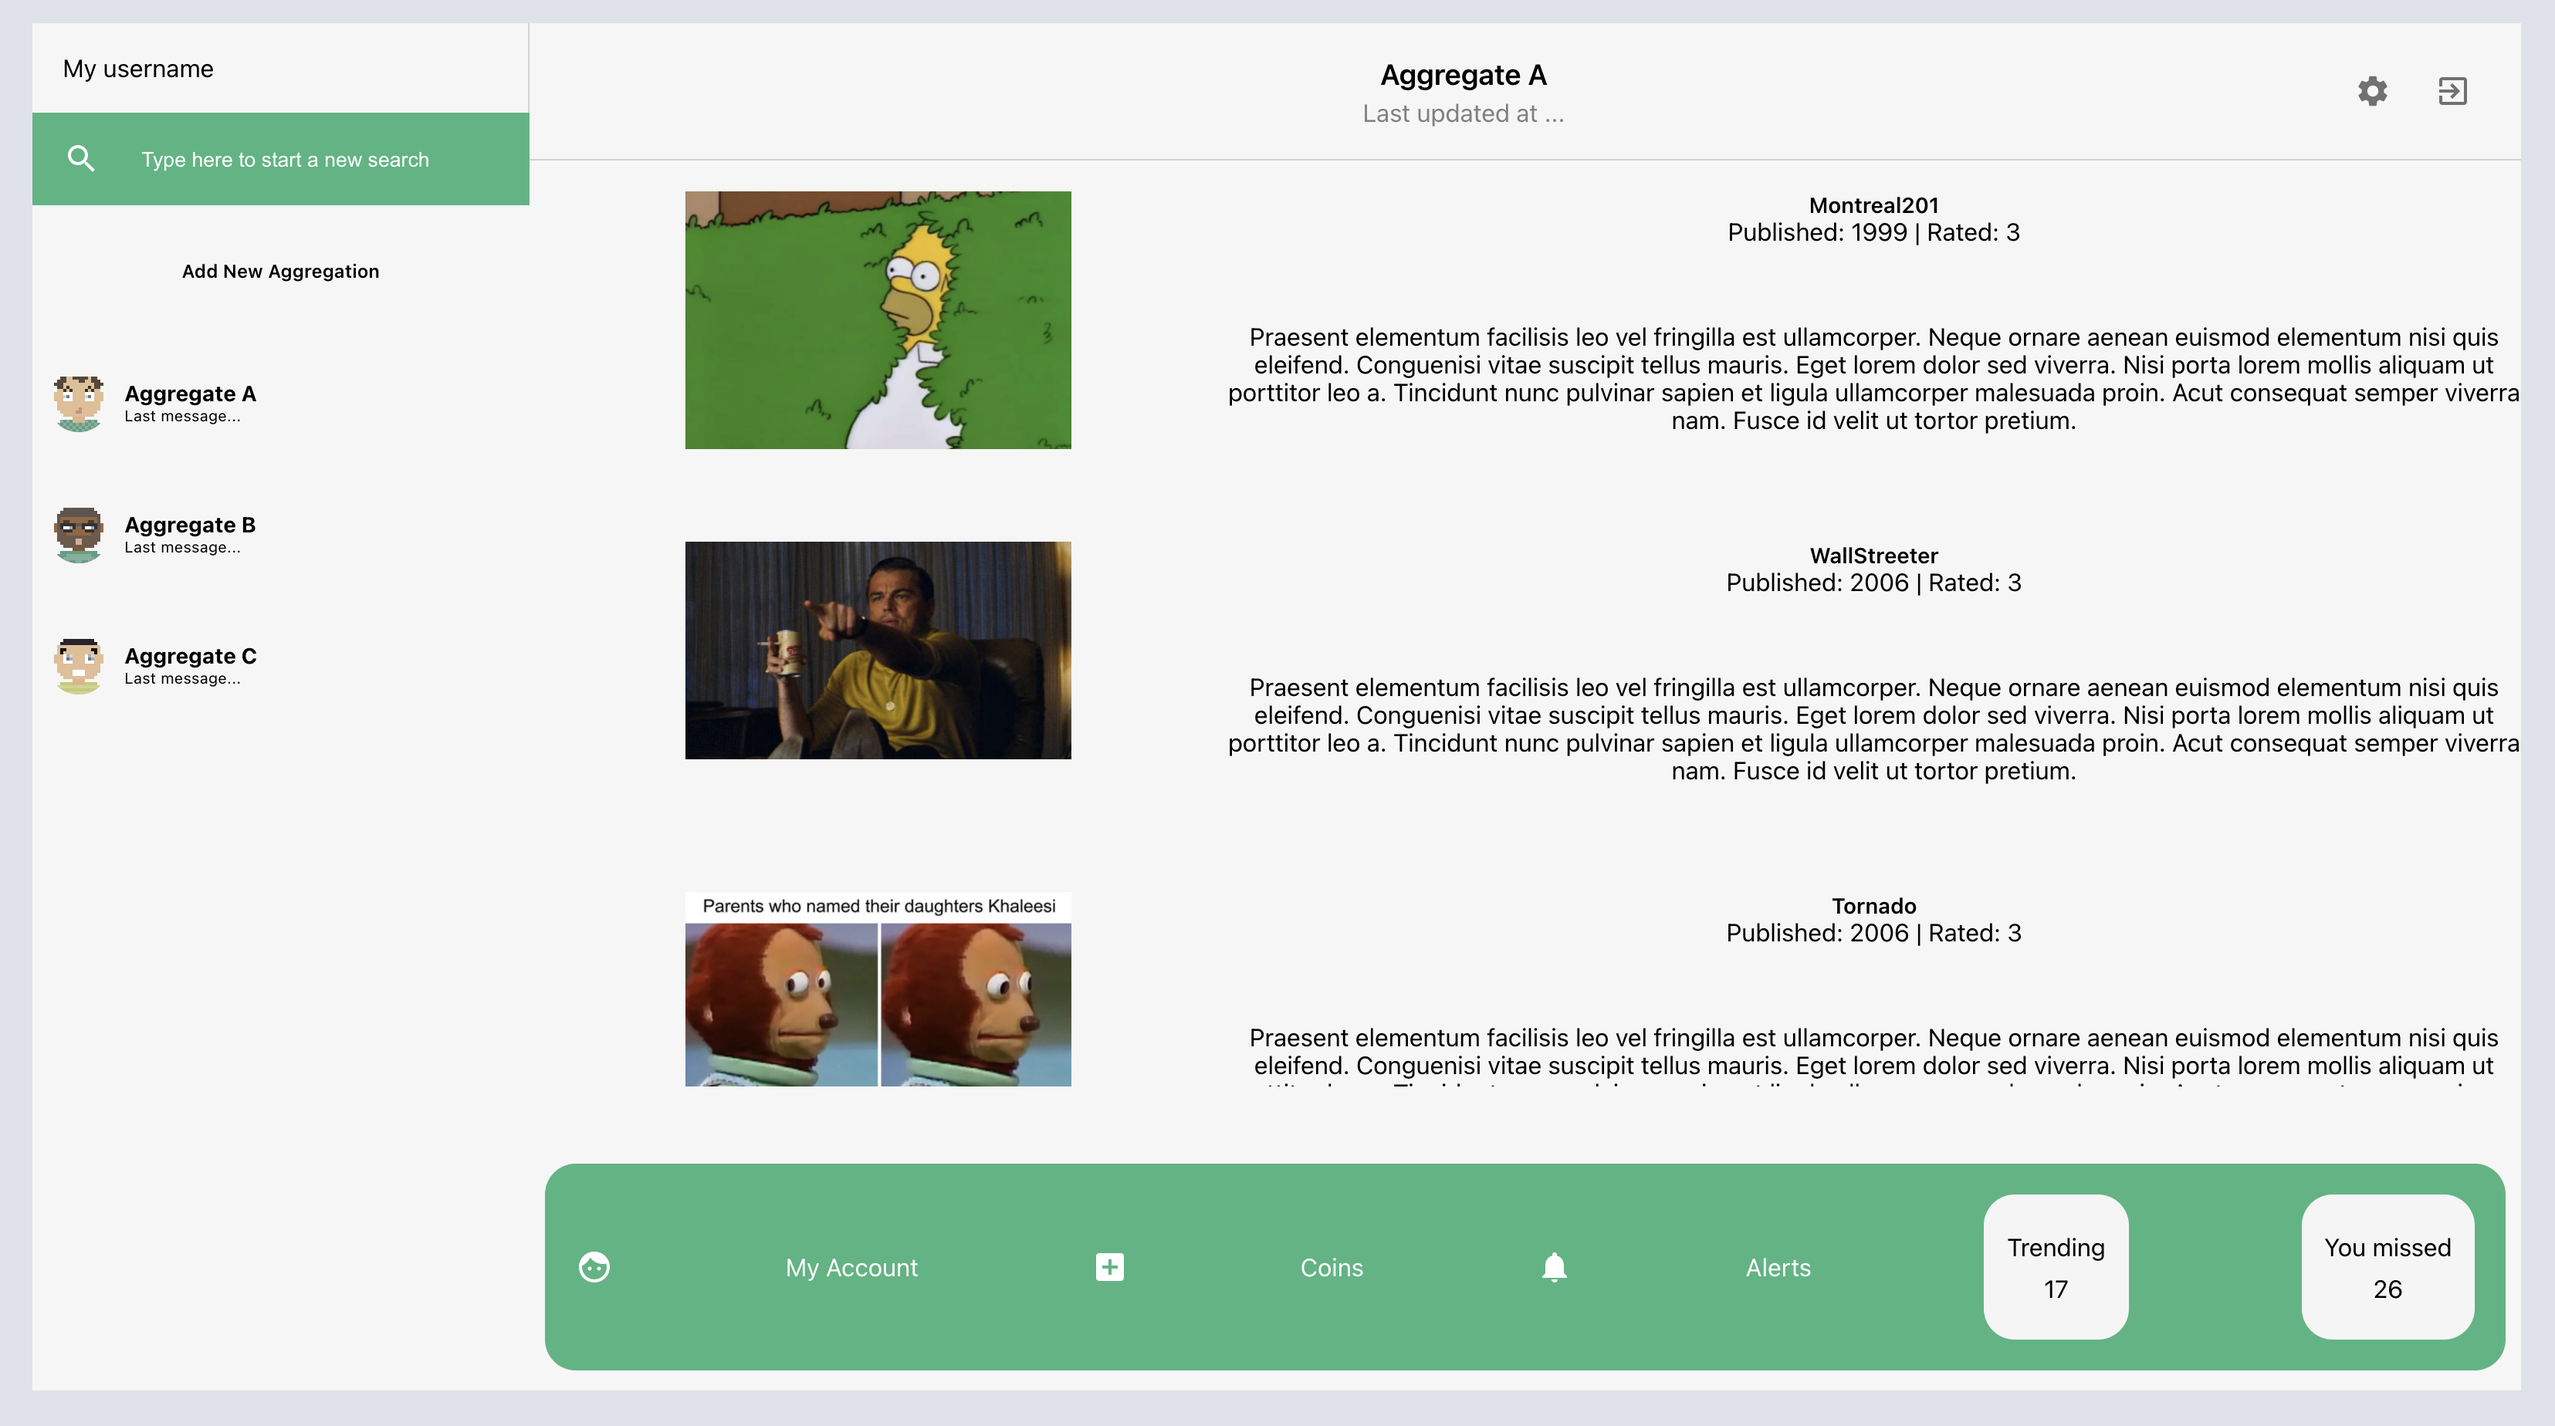
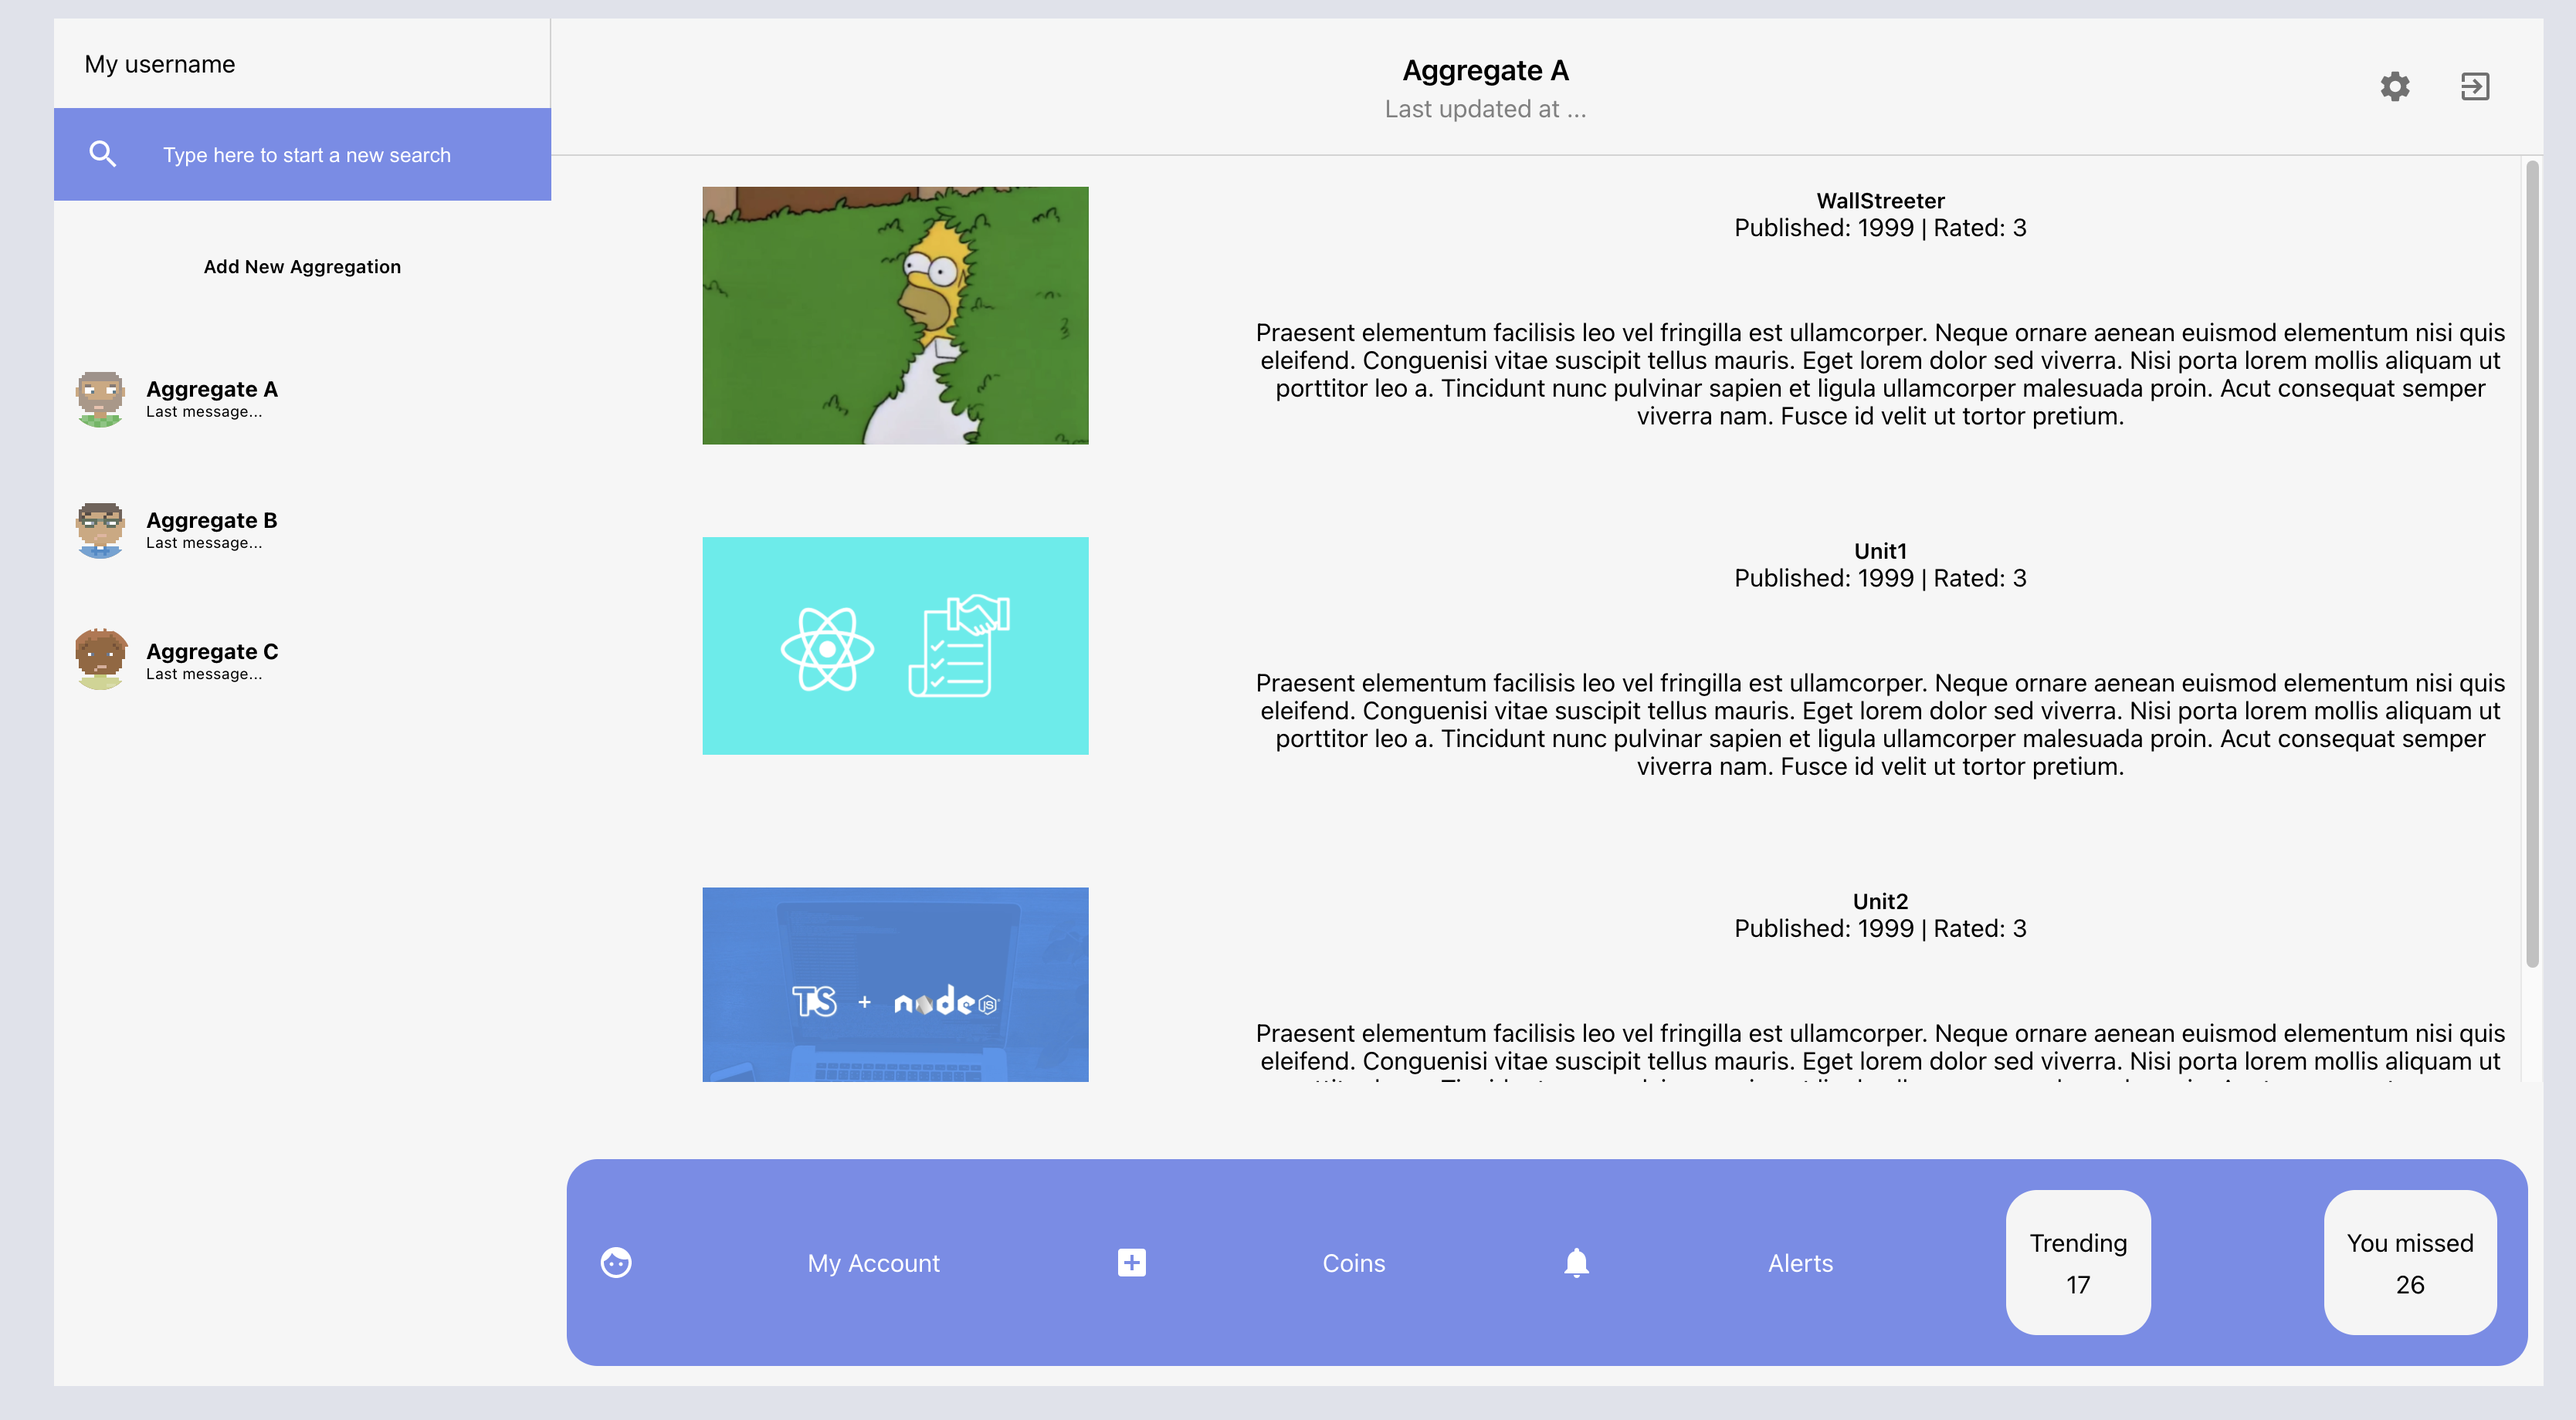
Theme revised

diff --git a/src/client/src/Components/Sidebar/Sidebar.css b/src/client/src/Components/Sidebar/Sidebar.css
@@ -23,7 +23,7 @@
 .sidebar__search {
   display: flex;
   align-items: center;
-  background-color: #41b681;
+  background-color: #778beb;
   height: 40px;
   padding: 10px;
 }
@@ -47,7 +47,7 @@
   margin-right: 20px;
   width: 100%;
   height: 25px;
-  background-color: #41b681;
+  background-color: #778beb;
   color: white;
 }
 

diff --git a/src/client/src/Components/Login/Login.css b/src/client/src/Components/Login/Login.css
@@ -44,7 +44,7 @@
   color: white;
   font-size: 20px;
   border: 0;
-  background-color: #41b681;
+  background-color: #778beb;
 }
 
 .login > form > button:hover {
@@ -60,7 +60,7 @@
 }
 
 .alert-danger {
-  color: #842029;
+  color: ##fff;
   background-color: #d697af;
   border-color: #f5c2c7;
 }

diff --git a/src/client/src/Components/Manager/Manager.css b/src/client/src/Components/Manager/Manager.css
@@ -1,5 +1,5 @@
 .manager {
-  background-color: #41b681;
+  background-color: #778beb;
   display: flex;
   padding: 20px;
   margin: 50px 10px 10px 10px;

diff --git a/src/db/manage.py b/src/db/manage.py
@@ -1,8 +1,11 @@
+# Generic
 from flask import Flask
 from flask_restful import Api
 from flask_jwt import JWT
 from flask_script import Manager
 
+
+# Authentification
 from security import authenticate, identity
 from resources.user import UserRegister
 from resources.market import Market, MarketList
